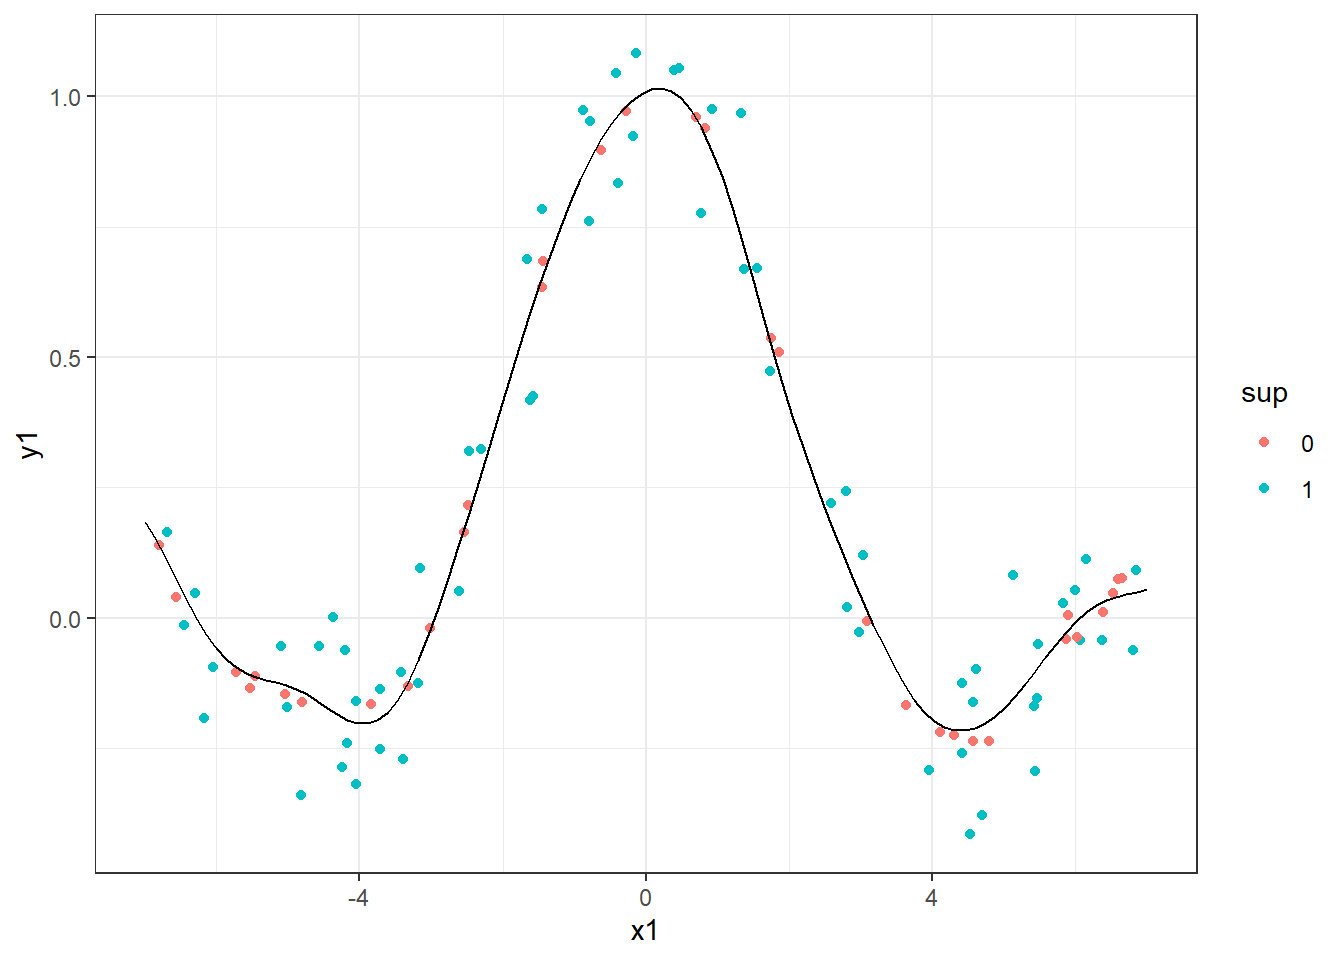
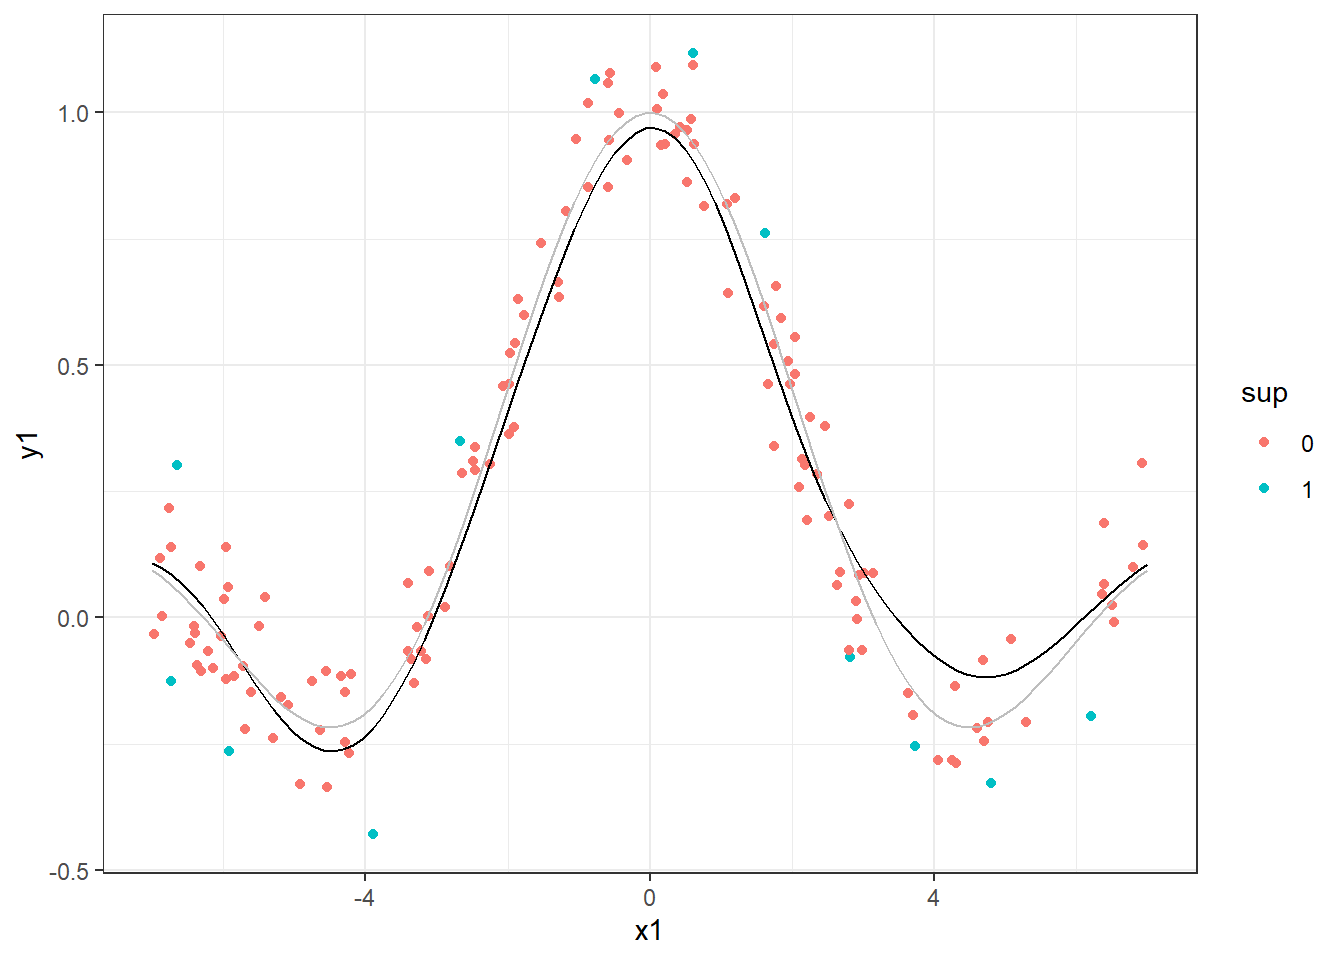
Add files via upload

diff --git a/AS_SVR.html b/AS_SVR.html
@@ -71,7 +71,7 @@ ul.task-list li input[type="checkbox"] {
 
 <section id="regressão-por-vetores-de-suporte" class="level2">
 <h2 class="anchored" data-anchor-id="regressão-por-vetores-de-suporte">Regressão por vetores de suporte</h2>
-<p>Drucker et al.&nbsp;(1996) propuseram as máquinas de vetores de suporte para regressão (<em>Support Vector Regression</em> - SVR), um método que confirma os conceitos da teoria de aprendizado estatístico de Vapnik (VAPNIK, 1999). O processo de aprendizado com SVR é realizado no espaço de um subconjunto dos dados de treinamento, chamados de vetores de suporte. Sejam os dados de treinamento <span class="math inline">\((\mathbf{x}_1, y_1), (\mathbf{x}_2, y_2), ..., (\mathbf{x}_N, y_N)\)</span>, <span class="math inline">\(i = 1, . .., N\)</span>, com <span class="math inline">\(\mathbf{x}_i = [x_{i1}, x_{i2}, ..., x_{ik}]^T\)</span>. O SVR busca uma função com desvio máximo <span class="math inline">\(\varepsilon\)</span> para os dados de treinamento. A Figura a seguir ilustra à esquerda a função perda <span class="math inline">\(\varepsilon\)</span>-insensitiva ou insensitiva ao erro, enquanto à direita ilustra-se a idéia geral da regressão por vetores de suporte para o caso linerar simples.</p>
+<p>Drucker et al.&nbsp;(1996) propuseram as máquinas de vetores de suporte para regressão (<em>Support Vector Regression</em> - SVR), um método que confirma os conceitos da teoria de aprendizado estatístico de Vapnik (VAPNIK, 1999). O processo de aprendizado com SVR é realizado no espaço de um subconjunto dos dados de treinamento, chamados de vetores de suporte. Sejam os dados de treinamento <span class="math inline">\(\{(\mathbf{x}_1, y_1), (\mathbf{x}_2, y_2), ..., (\mathbf{x}_N, y_N)\}\)</span>, <span class="math inline">\(i = 1, . .., N\)</span>, com <span class="math inline">\(\mathbf{x}_i = (x_{i1}, x_{i2}, ..., x_{ik})\)</span>. O SVR busca uma função com desvio máximo <span class="math inline">\(\varepsilon\)</span> para os dados de treinamento. A Figura a seguir ilustra à esquerda a função perda <span class="math inline">\(\varepsilon\)</span>-insensitiva ou insensitiva ao erro, enquanto à direita ilustra-se a idéia geral da regressão por vetores de suporte para o caso linerar simples.</p>
 <p>A linha central do modelo SVR consiste na linha de regressão, <span class="math inline">\(\hat{y}_i = \mathbf{x}_i^T \mathbf{w} + b\)</span>, enquanto as duas outras linhas paralelas e simétricas são chamadas de margens, <span class="math inline">\(\hat{y}_i = \mathbf{x}_i^T \mathbf{w} + b \pm \varepsilon\)</span> e os pontos que coincidem ou estão para fora desta linha são chamados de vetores de suporte e apresentam valor na função perda maior ou igual a zero, <span class="math inline">\(\xi_i \geq 0\)</span> para os vetores de suporte.</p>
 <div class="cell">
 <div class="cell-output-display">
@@ -101,7 +101,7 @@ C\sum_{i=1}^N L(y_i, \hat{y}_i) + \mathbf{w}^T\mathbf{w}
 L = \Biggl\{
 \begin{matrix}
 0 \text{, se } \lvert y_i - \hat{y}_i \rvert &lt; \varepsilon\\
-      \lvert y_i - \hat{y}_i \rvert - \varepsilon \text{, c.c.}
+      \lvert y_i - \hat{y}_i \rvert - \varepsilon \text{, cc.}
 \end{matrix}
 \end{aligned}
 \]</span></p>
@@ -139,7 +139,7 @@ L = \frac{1}{2}\mathbf{w}^T\mathbf{w} + C\sum_{i=1}^N(\xi_i + \xi_i^*) - \sum_{i
 <p><span class="math display">\[
 \begin{aligned}
     \text{Max}\ &amp;\begin{Bmatrix}
-    -\frac{1}{2}\sum_{i,j}^N(\alpha_i - \alpha_i^*)(\alpha_j - \alpha_j^*)\mathbf{x}_i\mathbf{x}_j \\
+    -\frac{1}{2}\sum_{i,j}^N(\alpha_i - \alpha_i^*)(\alpha_j - \alpha_j^*)\mathbf{x}_i\mathbf{x} \\
     -\varepsilon\sum_{i=1}^N(\alpha_i - \alpha_i^*)
     + \sum_{i=1}^N y_i(\alpha_i - \alpha_i^*) \end{Bmatrix}\\
     \textrm{s.t.: } \Biggl\{
@@ -149,7 +149,7 @@ L = \frac{1}{2}\mathbf{w}^T\mathbf{w} + C\sum_{i=1}^N(\xi_i + \xi_i^*) - \sum_{i
   \end{matrix}
 \end{aligned}
 \]</span></p>
-<p>Nesta formulação dual, <span class="math inline">\(\mathbf{w}\)</span> é reescrito como uma combinação linear das observações de treinamento, <span class="math inline">\(\mathbf{x}_i\mathbf{x}_j\)</span>. Na formulação dual, <span class="math inline">\(\eta_i\)</span> e <span class="math inline">\(\eta_i^*\)</span> foram descritos em função de <span class="math inline">\(C\)</span>, <span class="math inline">\(\alpha_i\)</span> e <span class="math inline">\(\alpha_i^*\)</span>, sendo esses eliminados. Além disso, <span class="math inline">\(\mathbf{w} = \sum_{i=1}^N(\alpha_i + \alpha_i^*)\mathbf{x}_i\)</span>. Na regressão por vetores de suporte, o modelo inicial apresentado na Equação <span class="math inline">\(\ref{eq:lin_func}\)</span> é reescrito como combinações lineares dos dados de treinamento, segundo o modelo a seguir. No entanto, o modelo inclui apenas os vetores de suporte, ou seja, <span class="math inline">\(\mathbf{x}_i\)</span> tal que <span class="math inline">\(\alpha_i &gt; 0\)</span> ou <span class="math inline">\(\alpha_i^* &gt; 0\)</span>, <span class="math inline">\(i = 1, ..., N\)</span>, com <span class="math inline">\(\xi_i\)</span> definindo a folga ou erro para além da margem. A SVR aumenta a dimensionalidade no espaço dos vetores de suporte ao invés do espaço dos preditores (VAPNIK, 2013).</p>
+<p>Nesta formulação dual, <span class="math inline">\(\mathbf{w}\)</span> é reescrito como uma combinação linear das observações de treinamento, <span class="math inline">\(\mathbf{x}_i\mathbf{x}\)</span>. Na formulação dual, <span class="math inline">\(\eta_i\)</span> e <span class="math inline">\(\eta_i^*\)</span> foram descritos em função de <span class="math inline">\(C\)</span>, <span class="math inline">\(\alpha_i\)</span> e <span class="math inline">\(\alpha_i^*\)</span>, sendo esses eliminados. Além disso, <span class="math inline">\(\mathbf{w} = \sum_{i=1}^N(\alpha_i + \alpha_i^*)\mathbf{x}_i\)</span>. Na regressão por vetores de suporte, o modelo inicial apresentado no modelo inicial, $_i = _i^T + b$, é reescrito como combinações lineares dos dados de treinamento, segundo o modelo a seguir. No entanto, o modelo inclui apenas os vetores de suporte, ou seja, <span class="math inline">\(\mathbf{x}_i\)</span> tal que <span class="math inline">\(\alpha_i &gt; 0\)</span> ou <span class="math inline">\(\alpha_i^* &gt; 0\)</span>, <span class="math inline">\(i = 1, ..., N\)</span>, com <span class="math inline">\(\xi_i\)</span> definindo a folga ou erro para além da margem. A SVR aumenta a dimensionalidade no espaço dos vetores de suporte ao invés do espaço dos preditores (VAPNIK, 2013).</p>
 <p><span class="math display">\[
 \hat{y} = \sum_{i=1}^N(\alpha_i - \alpha_i^*)\mathbf{x}_i\mathbf{x} + b
 \]</span></p>
@@ -157,7 +157,7 @@ L = \frac{1}{2}\mathbf{w}^T\mathbf{w} + C\sum_{i=1}^N(\xi_i + \xi_i^*) - \sum_{i
 <p><span class="math display">\[
 \hat{y} = \sum_{i=1}^N(\alpha_i - \alpha_i^*)k(\mathbf{x}_i,\mathbf{x}) + b
 \]</span></p>
-<p>A seguir plota-se um modelo SVR para um caso de regressão simples, sendo utilizado um <em>kernel</em> linear. Pode-se destacar em verde as observações que são vetores de suporte.</p>
+<p>A seguir plota-se um modelo SVR em linha preta contínua para um caso de regressão simples, sendo utilizado um <em>kernel</em> linear. Pode-se destacar em verde as observações que são vetores de suporte. O modelo plotado em linha pontilhada azul consiste em um modelo de regressão linear simples obtido por mínimos quadrados.</p>
 <div class="cell">
 <div class="cell-output cell-output-stdout">
 <pre><code> Setting default kernel parameters  </code></pre>
@@ -168,7 +168,7 @@ L = \frac{1}{2}\mathbf{w}^T\mathbf{w} + C\sum_{i=1}^N(\xi_i + \xi_i^*) - \sum_{i
 <p><img src="AS_SVR_files/figure-html/unnamed-chunk-3-1.png" class="img-fluid" width="672"></p>
 </div>
 </div>
-<p>Outros casos mais complexos como o seguinte podem ser aproximados por SVR com a aplicação do <em>kernel</em> adequado. No exemplo a seguir foi utilizado um <em>kernel</em> radial.</p>
+<p>Outros casos mais complexos como o seguinte podem ser aproximados por SVR com a aplicação do <em>kernel</em> adequado. No exemplo a seguir foi utilizado um <em>kernel</em> radial. A função considerada para simular os dados é plotada em cinza e o modelo em preto.</p>
 <div class="cell">
 <div class="cell-output-display">
 <p><img src="AS_SVR_files/figure-html/unnamed-chunk-5-1.png" class="img-fluid" width="672"></p>
